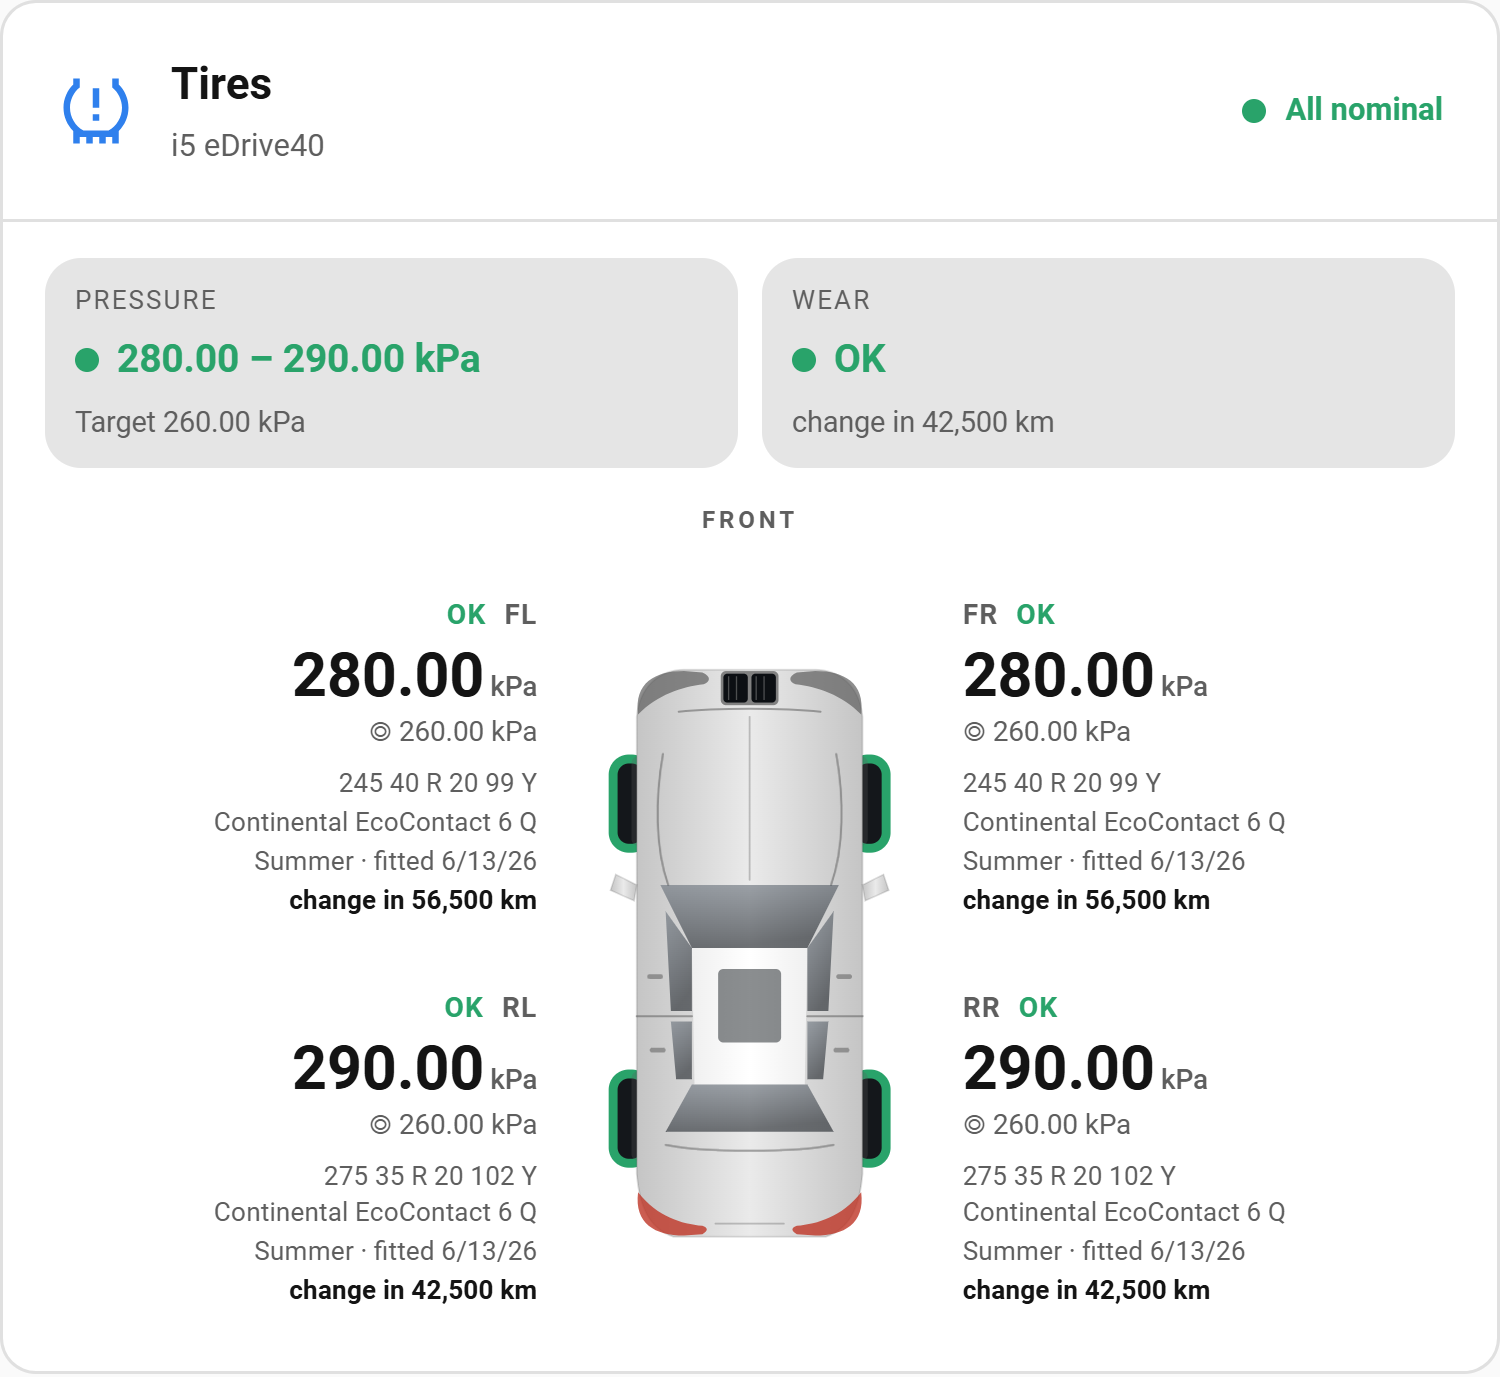
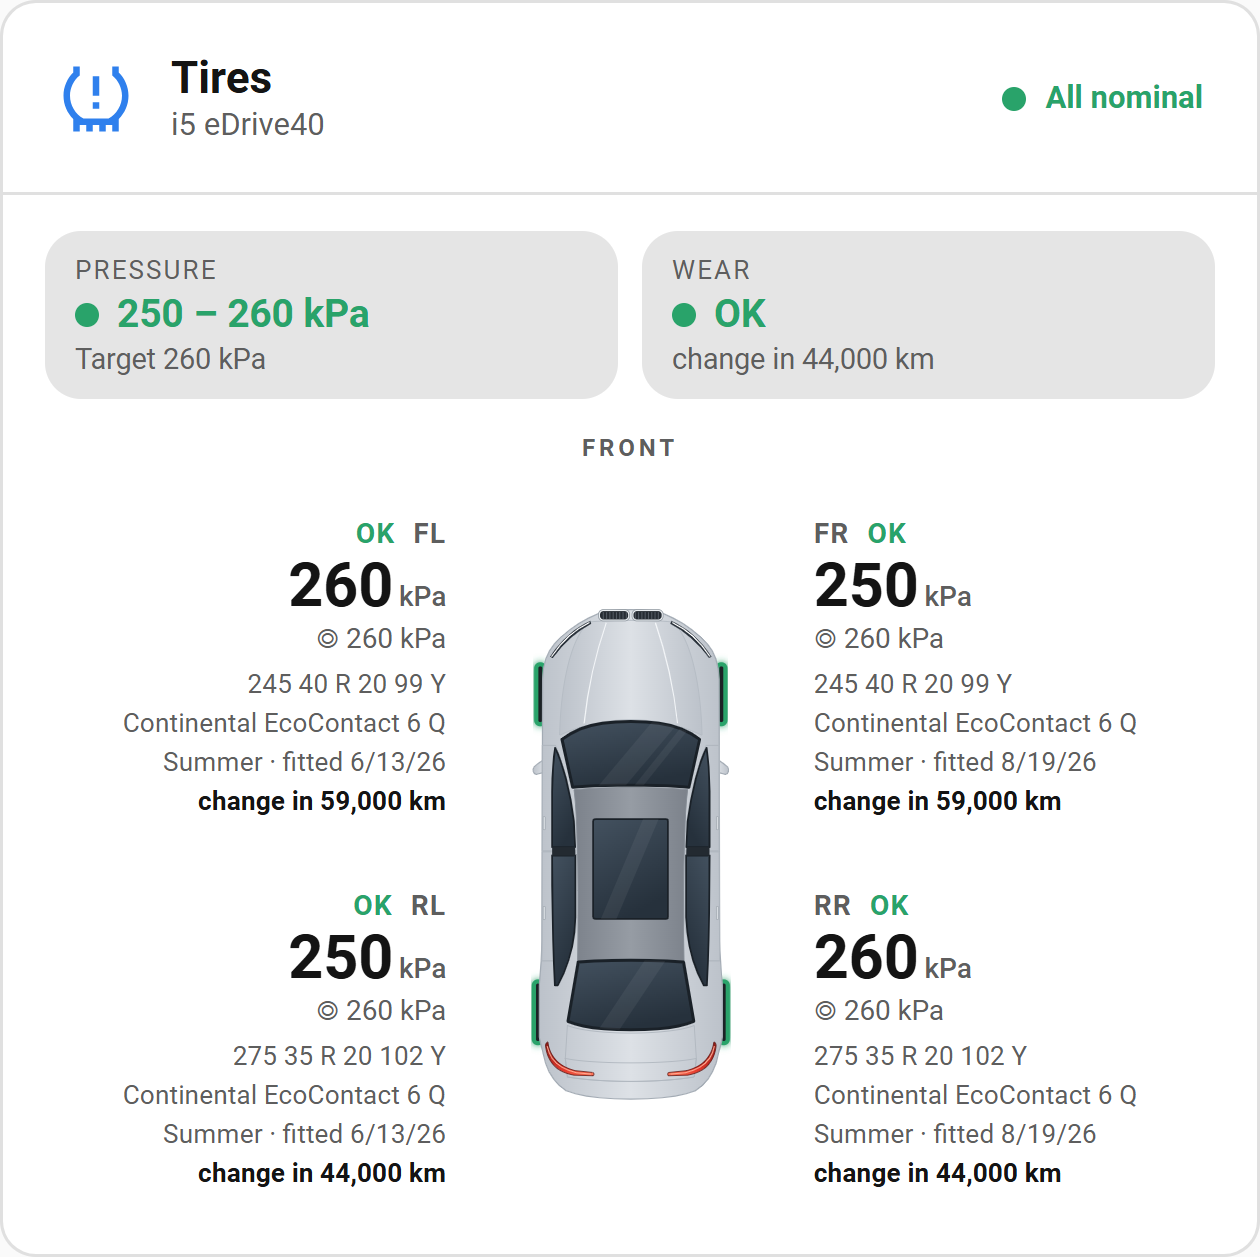
Reshoot the tire and closures card screenshots with the new car
Captured from the live i5 with the working-tree card. The README/HACS alt
text for the tire shot described high pressures the capture no longer shows.

diff --git a/info.md b/info.md
@@ -33,7 +33,7 @@ with it, so a usable dashboard exists out of the box.
 </p>
 <p align="center">
   <img src="https://raw.githubusercontent.com/JustChr/BavarianData/main/screenshots/wattfried-security.png" alt="Security &amp; closures card with a top-down car diagram, anti-theft alarm armed and all closures closed" width="300" />
-  <img src="https://raw.githubusercontent.com/JustChr/BavarianData/main/screenshots/wattfried-tires.png" alt="Tire pressure card flagging slightly high pressures on all four tires on a top-down car diagram" width="300" />
+  <img src="https://raw.githubusercontent.com/JustChr/BavarianData/main/screenshots/wattfried-tires.png" alt="Tire card with the pressure and wear summary above a top-down car, every tire OK" width="300" />
 </p>
 
 See the [README](https://github.com/JustChr/BavarianData) for the full BMW

diff --git a/README.md b/README.md
@@ -65,7 +65,7 @@ charge really drew from the grid.
 <p align="center">
   <img src="https://raw.githubusercontent.com/JustChr/BavarianData/main/screenshots/wattfried-security.png" alt="Security &amp; closures card with a top-down car diagram, anti-theft alarm armed and all closures closed" width="300" />
   &nbsp;&nbsp;
-  <img src="https://raw.githubusercontent.com/JustChr/BavarianData/main/screenshots/wattfried-tires.png" alt="Tire pressure card flagging slightly high pressures on all four tires on a top-down car diagram" width="300" />
+  <img src="https://raw.githubusercontent.com/JustChr/BavarianData/main/screenshots/wattfried-tires.png" alt="Tire card with the pressure and wear summary above a top-down car, every tire OK" width="300" />
 </p>
 
 > **Status — actively developed.** A spare-time project, verified against a
